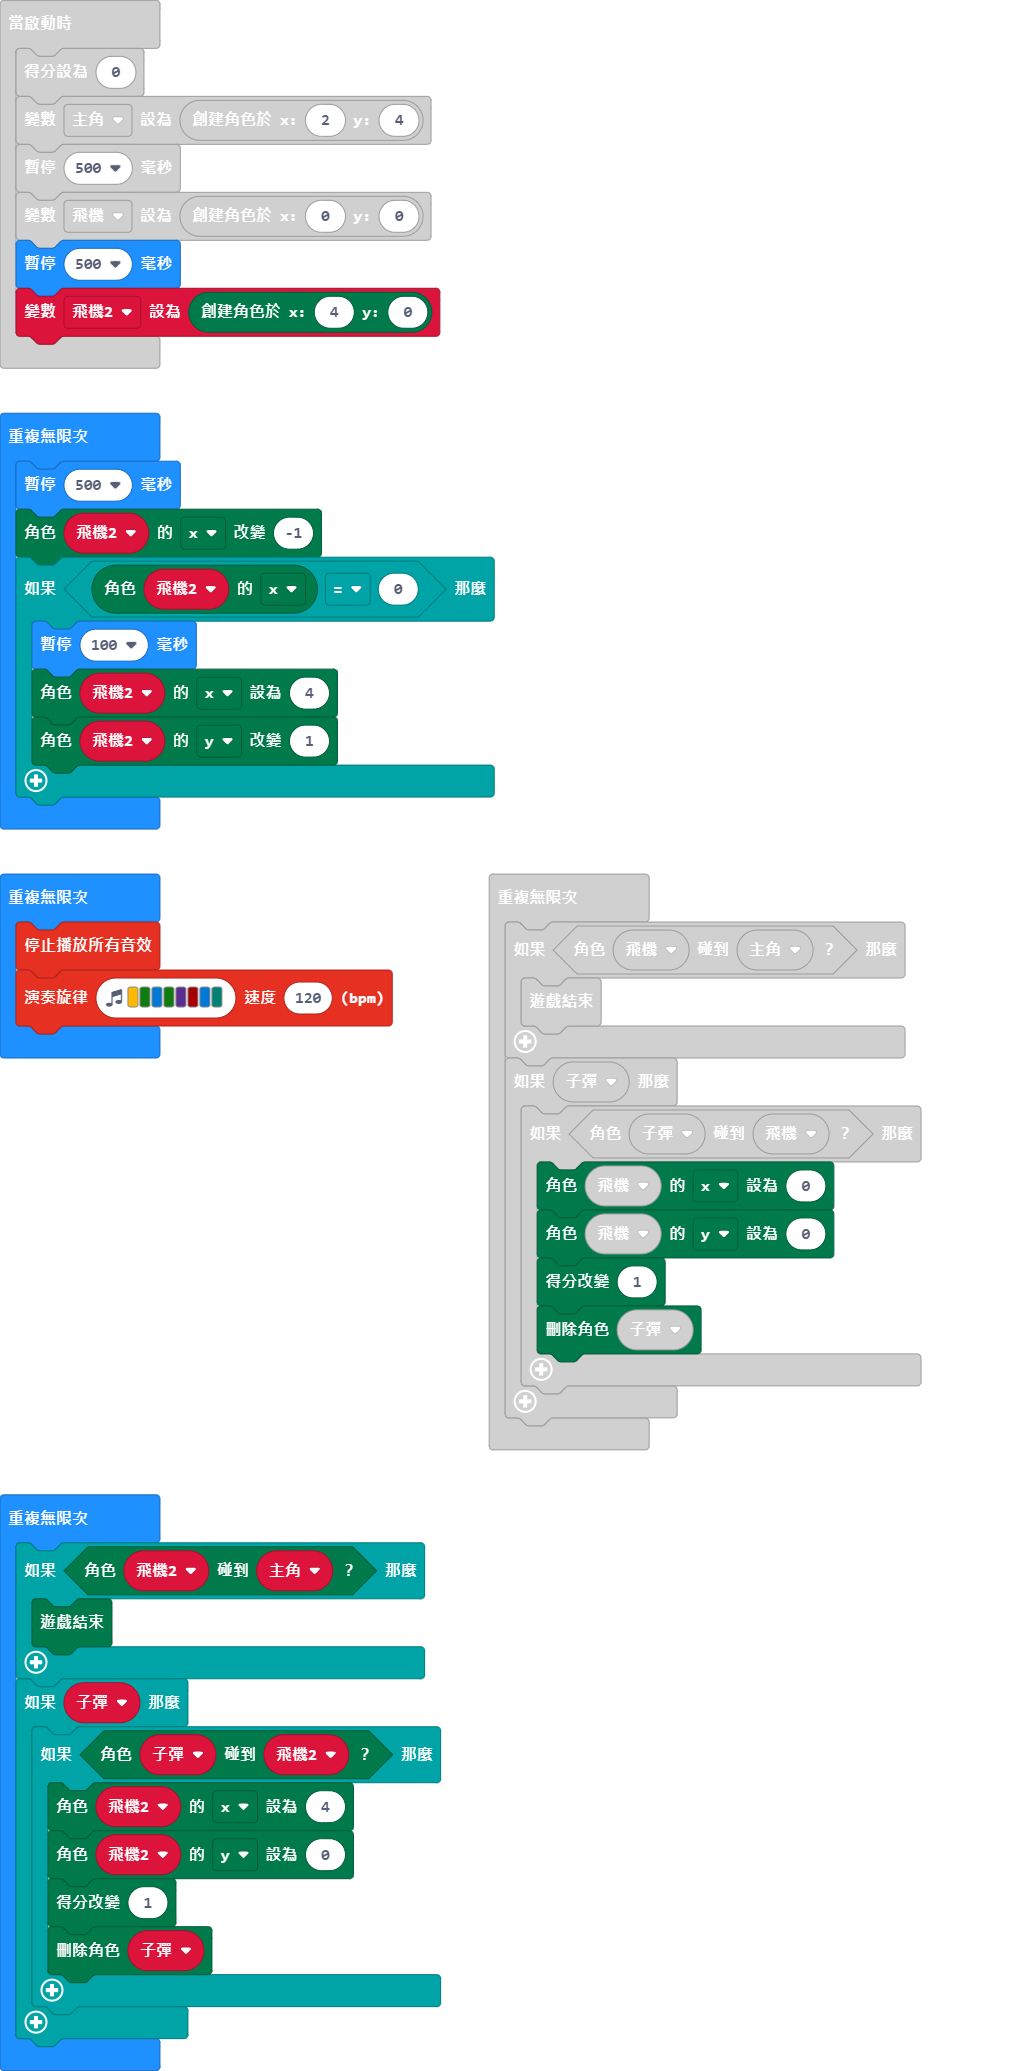
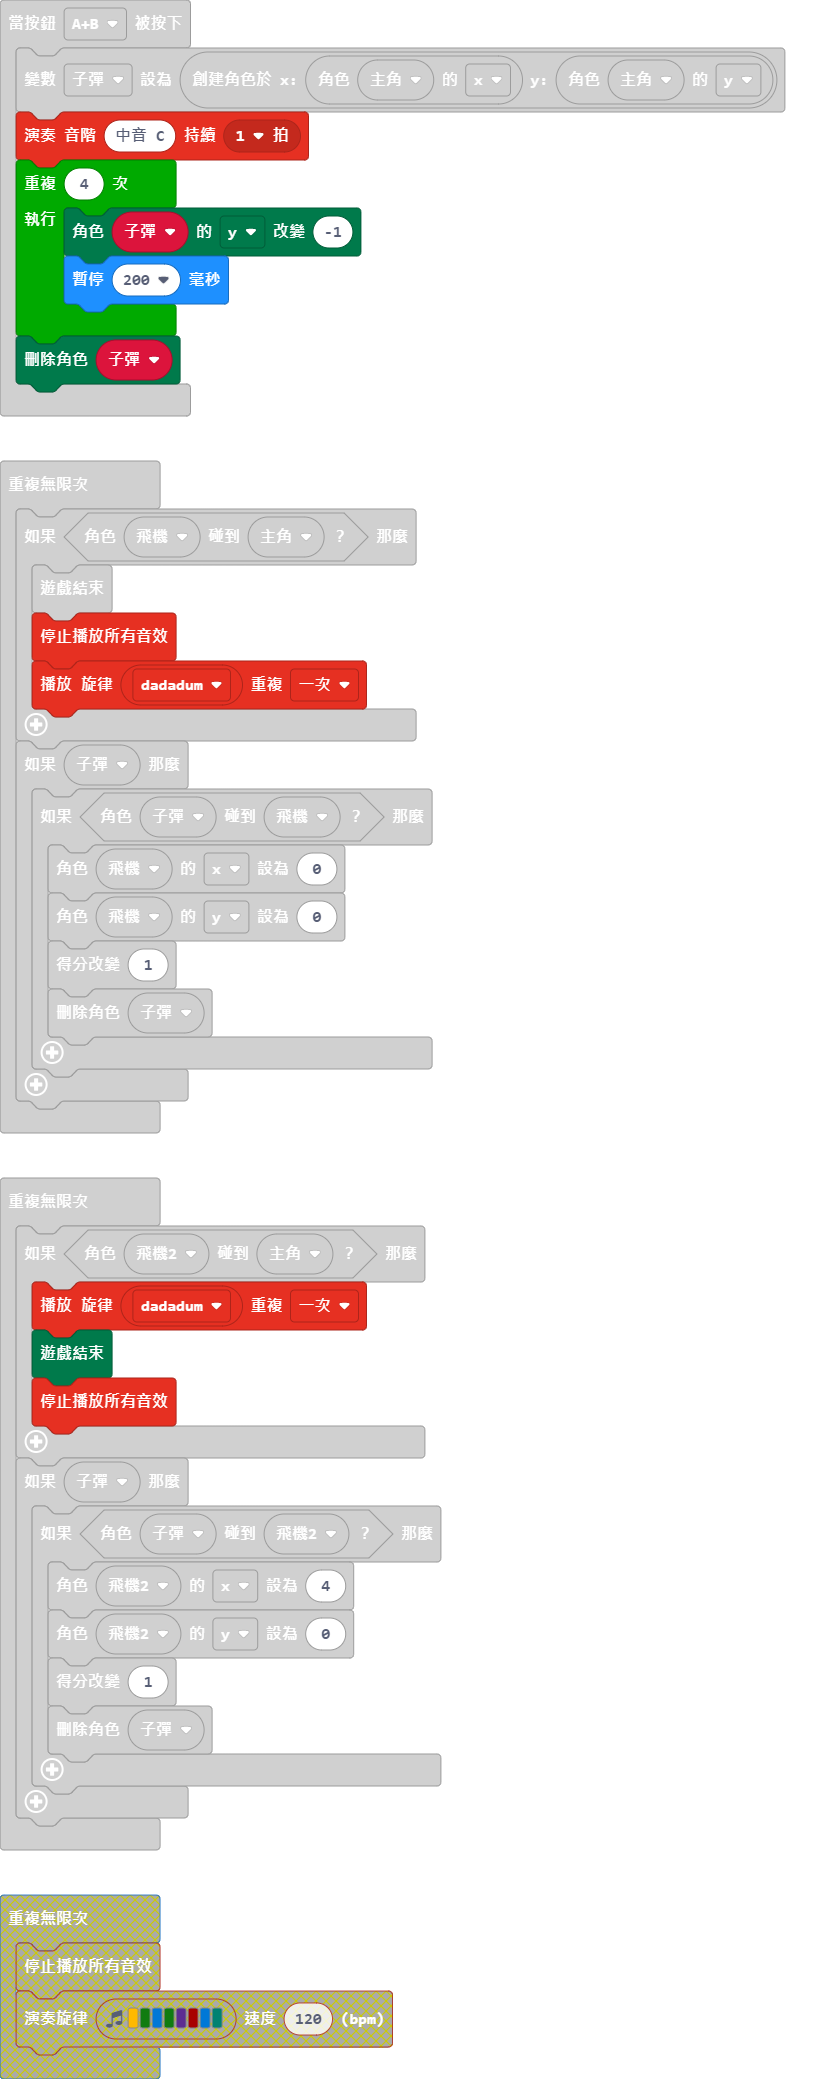
除去背景音樂，增加射擊音樂

diff --git a/main.ts b/main.ts
@@ -3,6 +3,7 @@ input.onButtonPressed(Button.A, function () {
 })
 input.onButtonPressed(Button.AB, function () {
     子彈 = game.createSprite(主角.get(LedSpriteProperty.X), 主角.get(LedSpriteProperty.Y))
+    music.playTone(262, music.beat(BeatFraction.Whole))
     for (let index = 0; index < 4; index++) {
         子彈.change(LedSpriteProperty.Y, -1)
         basic.pause(200)
@@ -39,12 +40,10 @@ basic.forever(function () {
     }
 })
 basic.forever(function () {
-    music.stopAllSounds()
-    music.playMelody("A G E G D C5 E F ", 120)
-})
-basic.forever(function () {
     if (飛機.isTouching(主角)) {
         game.gameOver()
+        music.stopAllSounds()
+        music.startMelody(music.builtInMelody(Melodies.Dadadadum), MelodyOptions.Once)
     }
     if (子彈) {
         if (子彈.isTouching(飛機)) {
@@ -57,7 +56,9 @@ basic.forever(function () {
 })
 basic.forever(function () {
     if (飛機2.isTouching(主角)) {
+        music.startMelody(music.builtInMelody(Melodies.Dadadadum), MelodyOptions.Once)
         game.gameOver()
+        music.stopAllSounds()
     }
     if (子彈) {
         if (子彈.isTouching(飛機2)) {
